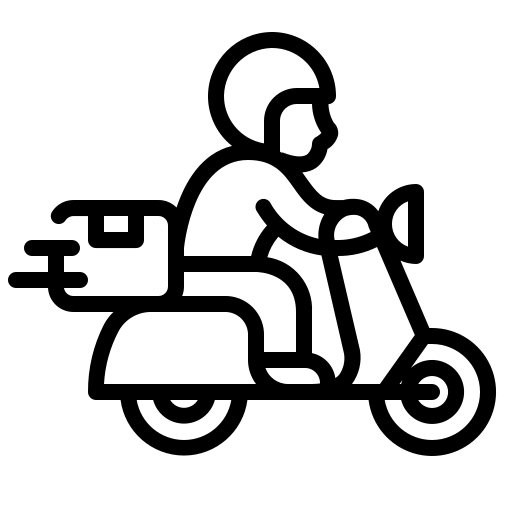
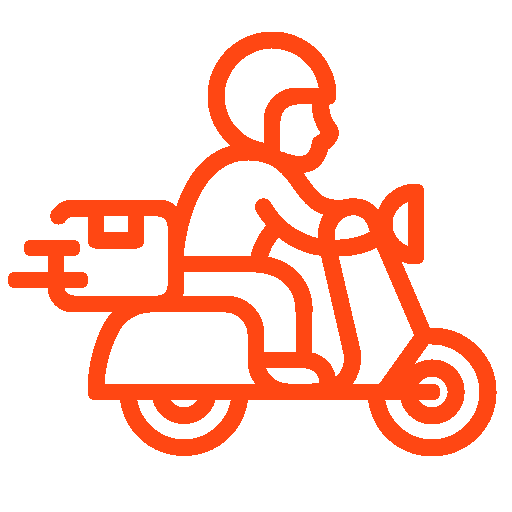
01.12 작업

Changed region(s): [[0.0, 0.0625, 0.9688, 0.9062]]

diff --git a/src/components/ShopList.js b/src/components/ShopList.js
@@ -1,0 +1,44 @@
+import React, { useRef, useState } from "react";
+// Import Swiper React components
+import { Swiper, SwiperSlide } from "swiper/react";
+
+// Import Swiper styles
+import "swiper/css";
+import "swiper/css/free-mode";
+
+import "../styles/shopList.css";
+
+const ShopList = () => {
+  return (
+    <>
+      <Swiper
+        slidesPerView={4}
+        spaceBetween={30}
+        freeMode={true}
+        className="mySwiper"
+      >
+        <SwiperSlide>
+          <div>
+            <img />
+          </div>
+          <span>상점이름</span>
+          <div className="flex justify-between">
+            <span className="text-yellow-200">별점</span>
+            <span>평점</span>
+            <span>리뷰수</span>
+          </div>
+        </SwiperSlide>
+        <SwiperSlide>Slide 2</SwiperSlide>
+        <SwiperSlide>Slide 3</SwiperSlide>
+        <SwiperSlide>Slide 4</SwiperSlide>
+        <SwiperSlide>Slide 5</SwiperSlide>
+        <SwiperSlide>Slide 6</SwiperSlide>
+        <SwiperSlide>Slide 7</SwiperSlide>
+        <SwiperSlide>Slide 8</SwiperSlide>
+        <SwiperSlide>Slide 9</SwiperSlide>
+      </Swiper>
+    </>
+  );
+};
+
+export default ShopList;

diff --git a/src/pages/Home.js b/src/pages/Home.js
@@ -1,23 +1,46 @@
 // main Home page
 import React, { useEffect } from "react";
 import { Link } from "react-router-dom";
-
 import SearchBar from "../components/SearchBar";
 import Loading from "../components/Loading";
 
 // tailwind-styled-component
 import tw from "tailwind-styled-components";
+import ShopList from "../components/ShopList";
+
+const HomeContainer = tw.div`
+  text-center
+`;
+const HomeTitle = tw.div`
+  text-xl
+`;
 
 const Home = () => {
   return (
     <>
-      <div>
-        {/* <Loading /> */}
-        <p>어디로 배달해드릴까요?</p>
+      {/* <Loading /> */}
+      <HomeContainer>
+        <HomeTitle>
+          <p>"어디로 배달해드릴까요?"</p>
+        </HomeTitle>
         <div>
           <SearchBar />
         </div>
-      </div>
+        <div>
+          <p>할인전</p>
+          <div>
+            <ShopList />
+          </div>
+        </div>
+        <div>
+          <p>음식주문/ 도착 시간표</p>
+          <ShopList />
+        </div>
+        <div>
+          <p>상점</p>
+          <ShopList />
+        </div>
+      </HomeContainer>
     </>
   );
 };

diff --git a/src/components/SearchBar.js b/src/components/SearchBar.js
@@ -1,20 +1,46 @@
 import React from "react";
 
+// FontAwesome Icon 적용
+import { FontAwesomeIcon } from "@fortawesome/react-fontawesome";
+import { faMagnifyingGlass } from "@fortawesome/free-solid-svg-icons";
+
 // tailwind-styled-component
 import tw from "tailwind-styled-components";
 
 const SearchBar = () => {
   const Home = tw.input`
     text-center
-    bg-red-200
-    text-zinc-300
-    h-12
+    text-black
+    h-10
     w-2/4
-  `;
+    bg-white 
+    border 
+    border-gray-300 
+    rounded-lg 
+    shadow-sm 
+    placeholder:text-gray-300 
+    focus:outline-none 
+    focus:border-main 
+    focus:ring-1 
+    focus:ring-main
+    m-2
+    `;
+
+  const SerchImg = tw.div`
+    absolute
+    left-[26%]
+    top-[27%]
+    text-gray-300
+    `;
 
   return (
     <>
-      <Home type="text" placeholder="학교명을 입력해주세요" />
+      <div className="relative">
+        <SerchImg>
+          <FontAwesomeIcon icon={faMagnifyingGlass} />
+        </SerchImg>
+        <Home type="text" placeholder="학교명을 입력해주세요" />
+      </div>
     </>
   );
 };

diff --git a/src/styles/shopList.css b/src/styles/shopList.css
@@ -1,0 +1,44 @@
+#app {
+  height: 100%;
+}
+html,
+body {
+  position: relative;
+  height: 100%;
+}
+
+.swiper {
+  width: 80%;
+  height: 100%;
+}
+
+.swiper-slide {
+  display: flex;
+  flex-wrap: nowrap;
+  flex-direction: column;
+  font-size: 18px;
+  background: #d1d5db;
+  border-radius: 0.5rem;
+  padding: 10px;
+
+  /* Center slide text vertically */
+  display: -webkit-box;
+  display: -ms-flexbox;
+  display: -webkit-flex;
+  display: flex;
+  -webkit-box-pack: center;
+  -ms-flex-pack: center;
+  -webkit-justify-content: center;
+  justify-content: center;
+  -webkit-box-align: center;
+  -ms-flex-align: center;
+  -webkit-align-items: center;
+  align-items: center;
+}
+
+.swiper-slide img {
+  display: block;
+  width: 120px;
+  height: 70px;
+  object-fit: cover;
+}

diff --git a/src/components/FixMenu.js b/src/components/FixMenu.js
@@ -19,6 +19,7 @@ const Fixmenu = () => {
     bg-white
     center
     p-2
+    bg-sub
   `;
 
   const FixUl = tw.ul`
@@ -35,7 +36,7 @@ const Fixmenu = () => {
   `;
   return (
     <>
-      <Fix className="bg-orange-50">
+      <Fix>
         <FixUl>
           <FixLi>
             <FontAwesomeIcon icon={faHouse} />

diff --git a/src/App.js b/src/App.js
@@ -19,9 +19,9 @@ import NotFound from "./pages/NotFound";
 import tw from "tailwind-styled-components";
 
 const Container = tw.div`
-  p-6
-  bg-orange-50
-`;
+  p-10
+  bg-sub
+  `;
 
 function App() {
   return (

diff --git a/tailwind.config.js b/tailwind.config.js
@@ -21,6 +21,7 @@ module.exports = {
       },
       colors: {
         main: "#ff4713",
+        sub: "#F7F6F3",
       },
     },
     plugins: [],
